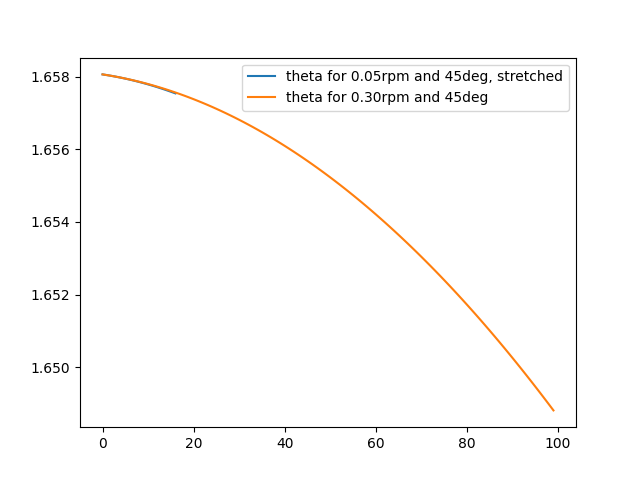
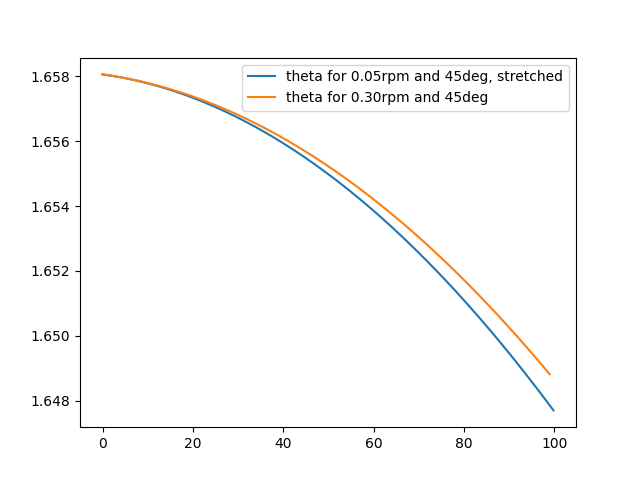
minor changes

diff --git a/validation/check_pointings.py b/validation/check_pointings.py
@@ -34,8 +34,11 @@ pnt = hdul[1].data
 
 theta_030_375 = pnt['THETA']
 
-plt.plot(theta_005_450[:100:6], label='theta for 0.05rpm and 45deg, stretched')
-plt.plot(theta_030_450[:100], label='theta for 0.30rpm and 45deg')
+samps_030 = np.arange(100)
+samps_005 = np.arange(600)/6
+
+plt.plot(samps_005, theta_005_450[:600], label='theta for 0.05rpm and 45deg, stretched')
+plt.plot(samps_030, theta_030_450[:100], label='theta for 0.30rpm and 45deg')
 plt.legend()
 plt.savefig('thetas.png')
 
